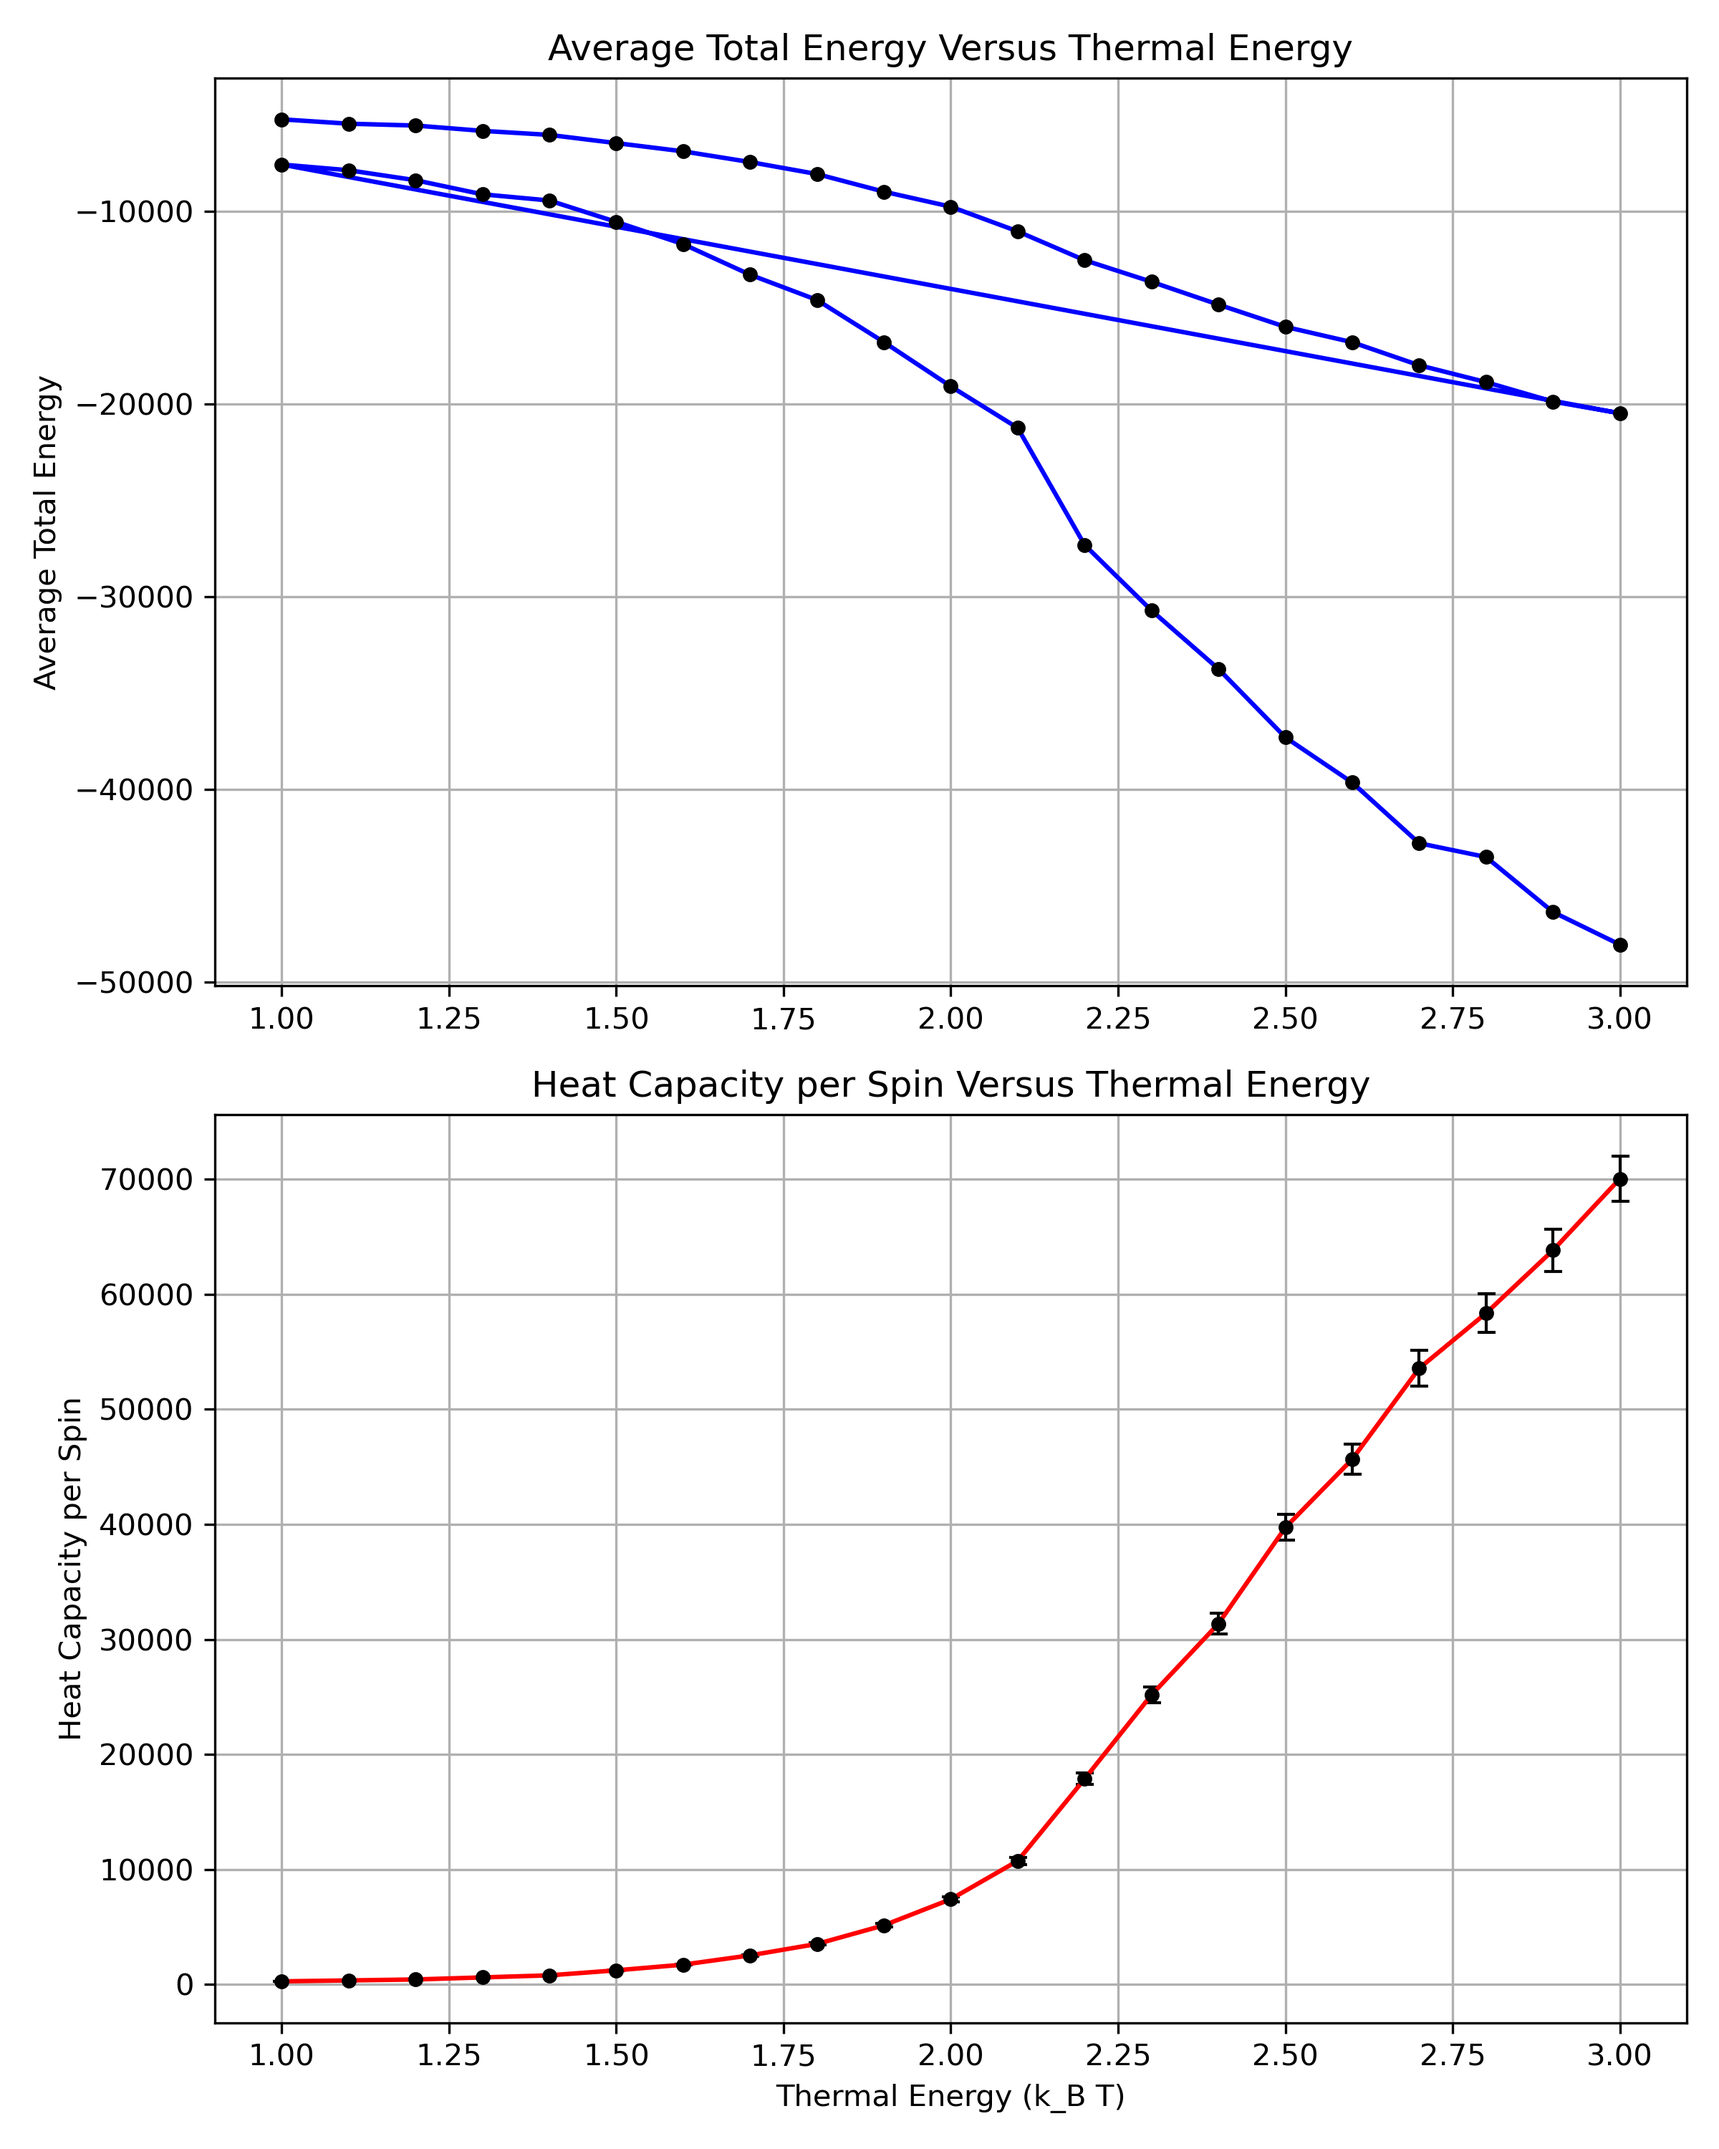
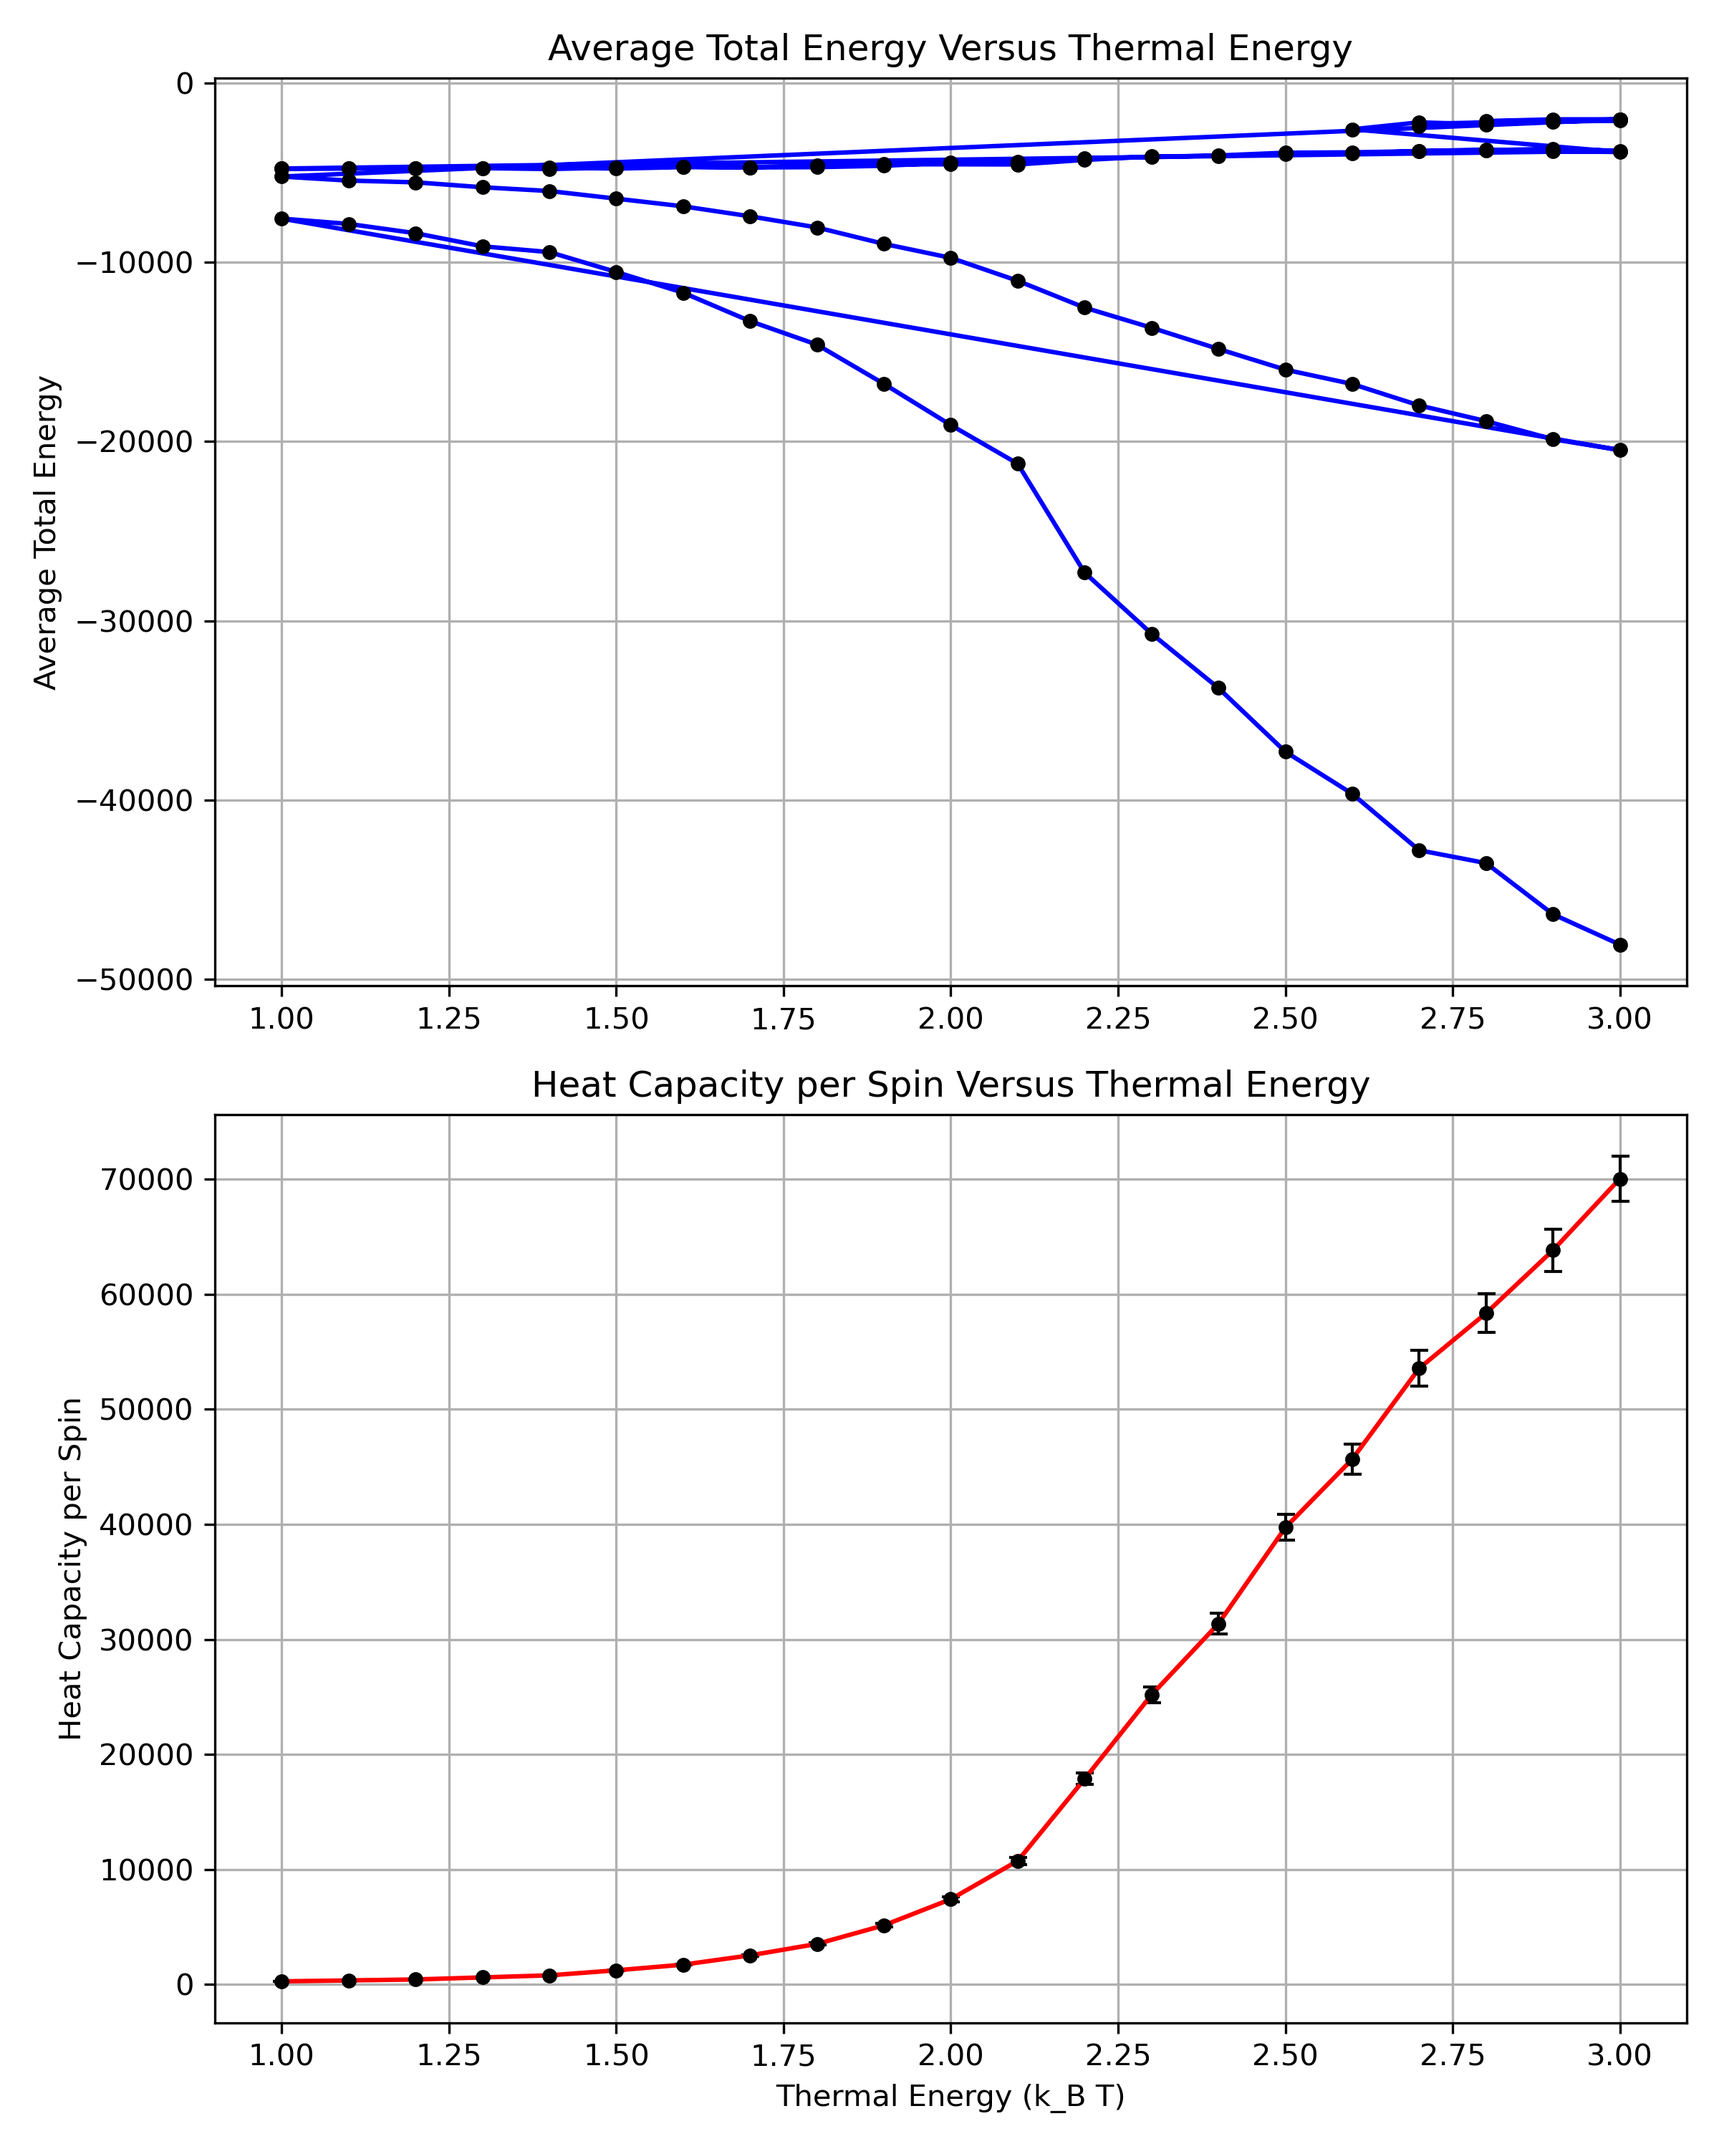
Fixed bugs in code and ran for all data

diff --git a/Checkpoint1.py b/Checkpoint1.py
@@ -91,20 +91,34 @@ class IsingModel(object):
         
         # Calculate the change in energy between current and trial state
         del_E = - 2 * E_current
-        
-        # Flip the sign of the lattice site according to the Metropolis algorithm
-        # Flip the sign if del_E is equal to or less than zero OR
-        # If r is less than the boltzmann probability
-        if del_E <= 0 or np.random.random() < np.exp(- del_E / self.T):
+
+        # Flip the signs of the lattice sites according to the Metropolis algorithm
+        # Flip the signs if del_E is equal to or less than zero
+        if del_E <= 0:
             
             # Flip the sign
             self.lattice[i,j] *= -1
             
             # Return the updated lattice and the change in energy
             return self.lattice, del_E
+        
+        else:
             
-        # If we reach here, no flip happened, so return del_E = 0
-        return self.lattice, 0
+            # Generate a random number
+            r = np.random.random()
+        
+            # Swap the signs if r is less than the boltzmann probability
+            if r < np.exp(- del_E / self.T):
+            
+                # Flip the sign
+                self.lattice[i,j] *= -1
+                
+                # Return the updated lattice and the change in energy
+                return self.lattice, del_E
+            
+            else:
+                # If we reach here, no flip happened, so return del_E = 0
+                return self.lattice, 0
             
     
     def kawasaki_dynamics(self):
@@ -165,13 +179,12 @@ class IsingModel(object):
         # If the sites are neighbours, the change in energy double counted the same site
         # Twice in the current and trial states
         # So, correct for it by adding 4 since the spins are always opposite 
-        #if is_neighbor:
-         #   del_E += 4 
+        if is_neighbor:
+           del_E += 4 
 
         # Swap the signs of the lattice sites according to the Metropolis algorithm
-        # Swap the signs if del_E is equal to or less than zero OR
-        # If r is less than the boltzmann probability
-        if del_E <= 0 or np.random.random() < np.exp(- del_E / self.T):
+        # Swap the signs if del_E is equal to or less than zero
+        if del_E <= 0:
             
             # Swap the sites
             self.lattice[i, j] = site_km_spin
@@ -179,9 +192,25 @@ class IsingModel(object):
             
             # Return the updated lattice and the change in energy
             return self.lattice, del_E
+        
+        else:
+            
+            # Generate a random number
+            r = np.random.random()
+        
+            # Swap the signs if r is less than the boltzmann probability
+            if r < np.exp(- del_E / self.T):
+            
+                # Swap the sites
+                self.lattice[i, j] = site_km_spin
+                self.lattice[k, m] = site_ij_spin
                 
-        # If we reach here, no swap happened, so return del_E = 0
-        return self.lattice, 0
+                # Return the updated lattice and the change in energy
+                return self.lattice, del_E
+            
+            else:
+                # If we reach here, no swap happened, so return del_E = 0
+                return self.lattice, 0
             
     def calculate_energy(self, i, j, site_spin):
         """
@@ -291,7 +320,7 @@ class Simulation(object):
         self.ising_model = IsingModel(n, T) # Pass parameters into IsingModel
         self.ising_model.initialise() # Create the initial Ising Model square lattice
     
-    def simulate(self, steps = 50100):
+    def simulate(self, steps = 100100):
         """
         Runs an animation of the square lattice according to the chosen Monte
         Carlo simulation dynamics (Glauber or Kawasaki).
@@ -398,7 +427,8 @@ class Simulation(object):
         """
         
         # Calcualte and return the mean absolute magnetisation
-        return np.abs(np.mean(tot_M_list))
+        #return np.abs(np.mean(tot_M_list))
+        return np.mean(tot_M_list)                                                # no absolute value!
     
     def calculate_susceptibility(self, tot_M_list):
         """
@@ -420,7 +450,8 @@ class Simulation(object):
         """
         
         # Calculate and return the susceptibilty
-        return np.var(np.abs(tot_M_list)) / (self.N * self.T)
+        #return np.var(np.abs(tot_M_list)) / (self.N * self.T)
+        return np.var(tot_M_list) / (self.N * self.T)                                        # no absolute value!
     
     def bootstrap_method(self, data):
         """
@@ -509,8 +540,9 @@ class Simulation(object):
         for T in temperatures:
             print(f"Simulating T = {T:.1f}...")
             
-            # Make sure the model knows the new temperature
+            # Make sure the model and this class knows the new temperature
             model.T = T
+            self.T = T
             
             # Start counts at zero
             counts = 0
@@ -535,15 +567,15 @@ class Simulation(object):
                     continue
                 
                 # Calculate the initial energy right after equilibrium
-                if tot_E is None:
+                elif tot_E is None:
                     tot_E = model.calculate_total_energy()
                 
                 # Update the total energy using the energy difference
                 else:
                     tot_E += del_E
-                
+                    
                 # Take a measurement every 10 sweeps
-                if counts % (self.N * 10) == 0:
+                if counts % (self.N * 10) == 0 and counts > 100 * self.N:
                     
                     # Append temperature to the list
                     tot_E_list.append(tot_E)
@@ -605,8 +637,9 @@ class Simulation(object):
         for T in temperatures:
             print(f"Simulating T = {T:.1f}...")
             
-            # Make sure the model knows the new temperature
+            # Make sure the model this class knows the new temperature
             model.T = T
+            self.T = T
             
             # Start counts at zero
             counts = 0
@@ -640,7 +673,7 @@ class Simulation(object):
                     tot_E += del_E
                 
                 # Take a measurement every 10 sweeps
-                if counts % (self.N * 10) == 0:
+                if counts % (self.N * 10) == 0 and counts > 100 * self.N:
                     
                     # Calculate magnetisation 
                     tot_M_list.append(model.calculate_magnetisation())
@@ -964,7 +997,7 @@ if __name__ == "__main__":
         
         # Prompt the user for measurement parameters
         n = lattice_size_prompt()
-        T = 0 # since measurements option doesn't need a temperature
+        T = 3 # since measurements option doesn't need a temperature
         dynamics = dynamics_prompt()
         
         # Initialise the simulation
@@ -980,8 +1013,8 @@ if __name__ == "__main__":
             print("Measurements beginning...")
             
             # Define filenames
-            filename1 = "glauber_energy_and_specific_heat_5.txt"
-            filename2 = "glauber_magnetisation_and_susceptibility_5.txt"
+            filename1 = "glauber_energy_and_specific_heat_8_noabsvalue.txt"
+            filename2 = "glauber_magnetisation_and_susceptibility_8_noabsvalue.txt"
             
             # Run the simulation
             sim.run_glauber(filename1, filename2)
@@ -999,7 +1032,7 @@ if __name__ == "__main__":
             print("Measurements beginning...")
             
             # Define filename
-            filename = "kawasaki_energy_and_specific_heat_5.txt"
+            filename = "kawasaki_energy_and_specific_heat_8.txt"
             
             # Run the simulation
             sim.run_kawasaki(filename)
